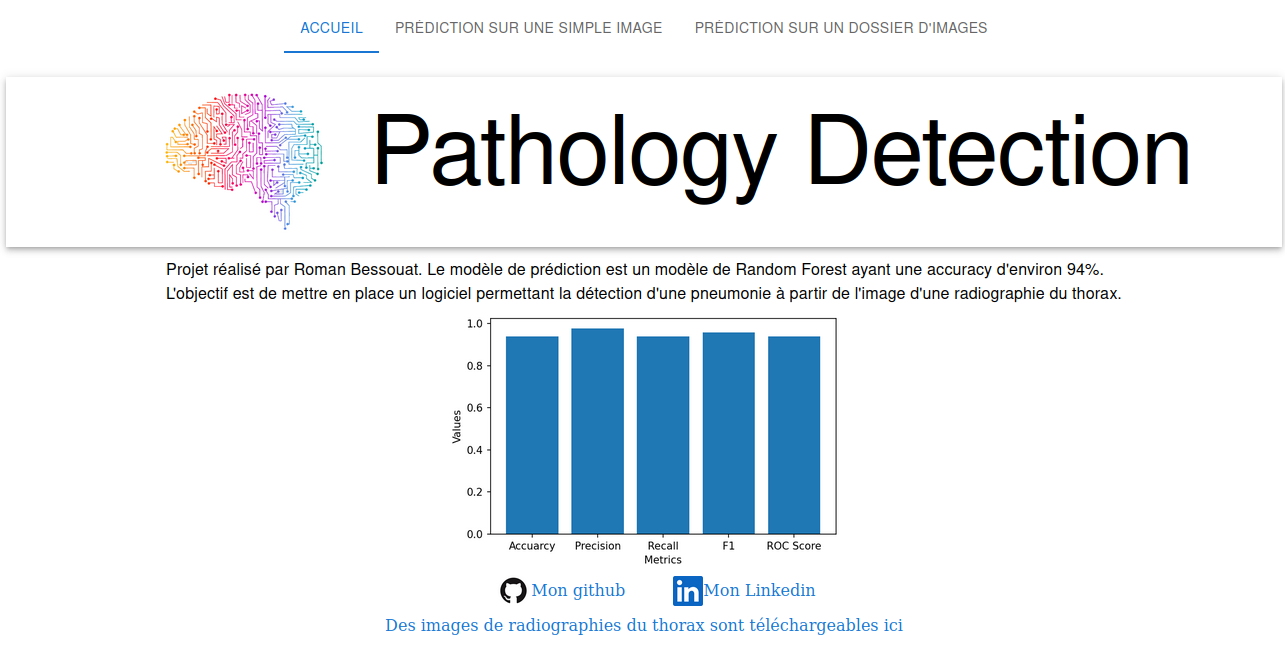
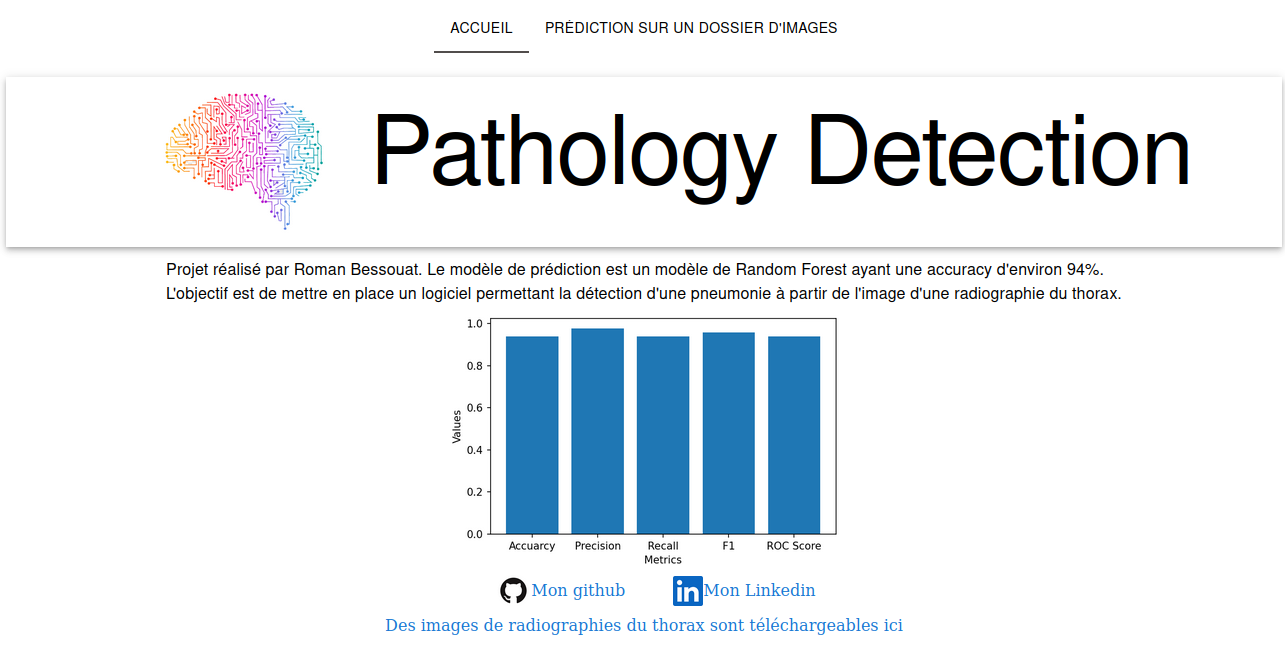
screen modification

Changed region(s): [[0.3113, 0.0306, 0.7782, 0.0613], [0.2179, 0.0306, 0.2802, 0.0613]]

diff --git a/front/src/components/multipleImages.js b/front/src/components/multipleImages.js
@@ -95,17 +95,6 @@ const UploadImgs = () => {
   return (
     <Stack spacing={5} alignItems="center">
       <Stack spacing={30} direction="row" alignItems="center">
-        <Button
-          style={{backgroundColor:"#514d4c"}}
-          aria-label="upload-picture"
-          component="label"
-          endIcon={<FileUploadIcon />}
-          variant="contained"
-        >
-          Upload image
-          <input hidden type="file" onChange={onUpload} multiple />
-        </Button>
-
         <Stack direction="row" spacing={2}>
           <Button variant="contained" style={{backgroundColor:"#514d4c"}} onClick={onPredict}>
             Predict

diff --git a/README.md b/README.md
@@ -33,6 +33,6 @@ Ensuite rendez vous à cette url pour visualiser le logiciel : `http://localhost
 
 ![screenshot1](https://github.com/Bessouat40/Logiciel-d-aide-au-diagnostic/blob/main/screen/accueil.png?raw=true)
 
-![screenshot2](https://github.com/Bessouat40/Logiciel-d-aide-au-diagnostic/blob/main/screen/pred_simple_image.png?raw=true)
+![screenshot2](https://github.com/Bessouat40/Logiciel-d-aide-au-diagnostic/blob/main/screen/multiple.png?raw=true)
 
-![screenshot3](https://github.com/Bessouat40/Logiciel-d-aide-au-diagnostic/blob/main/screen/multiple_predictions.png?raw=true)
+![screenshot3](https://github.com/Bessouat40/Logiciel-d-aide-au-diagnostic/blob/main/screen/multiple_pred.png?raw=true)
